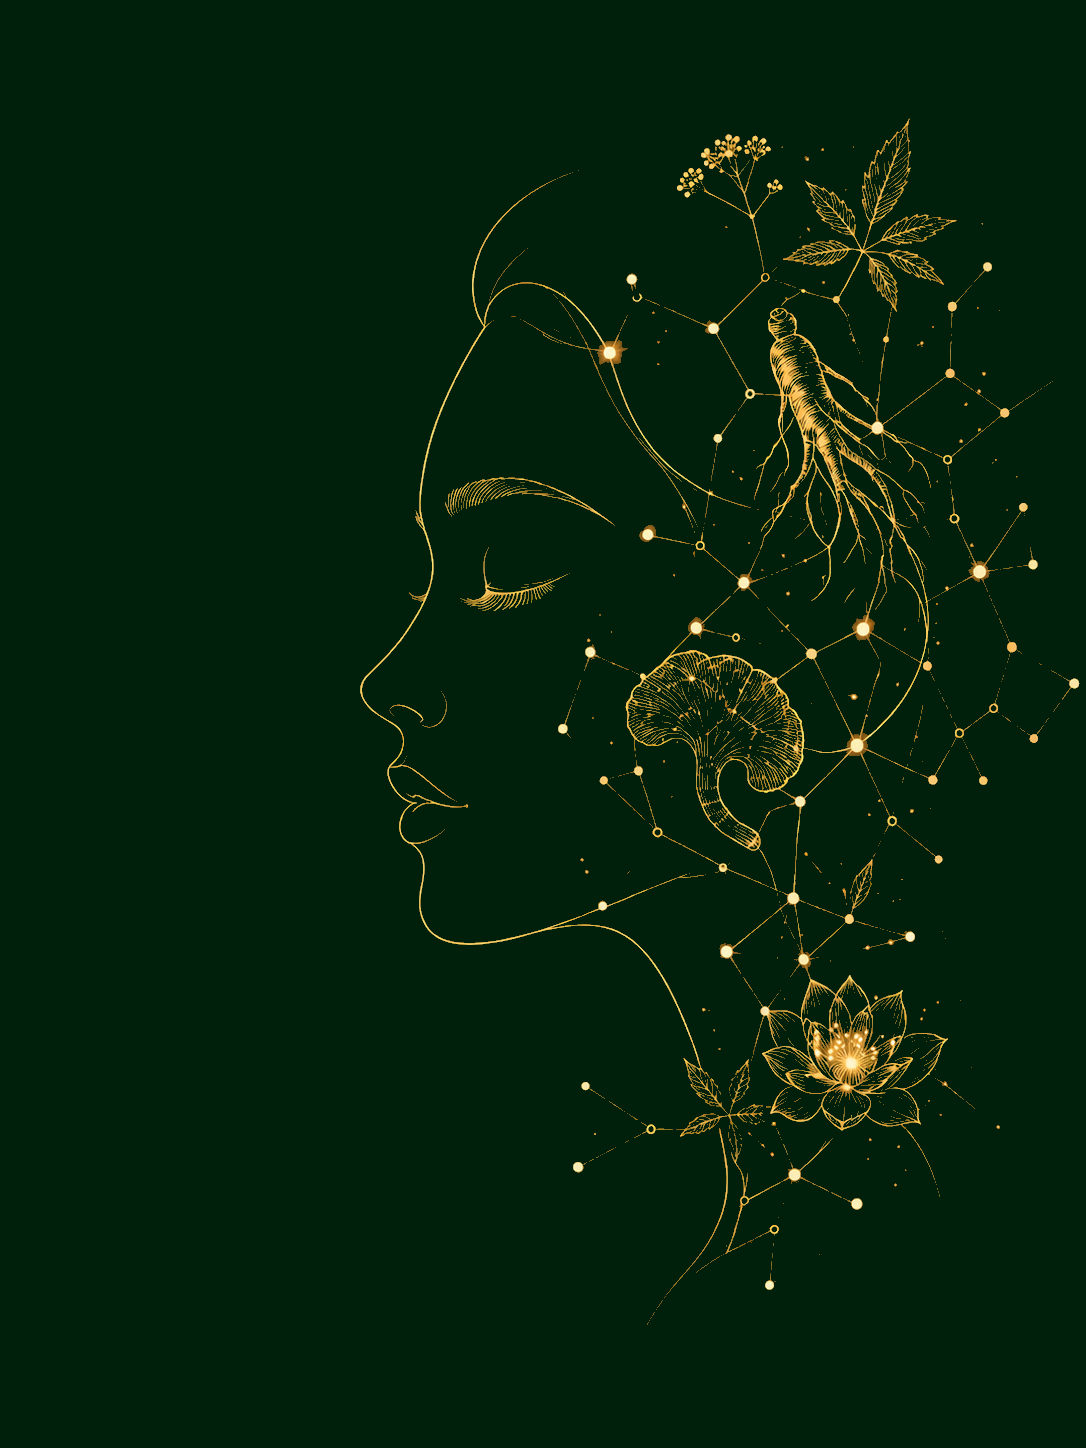
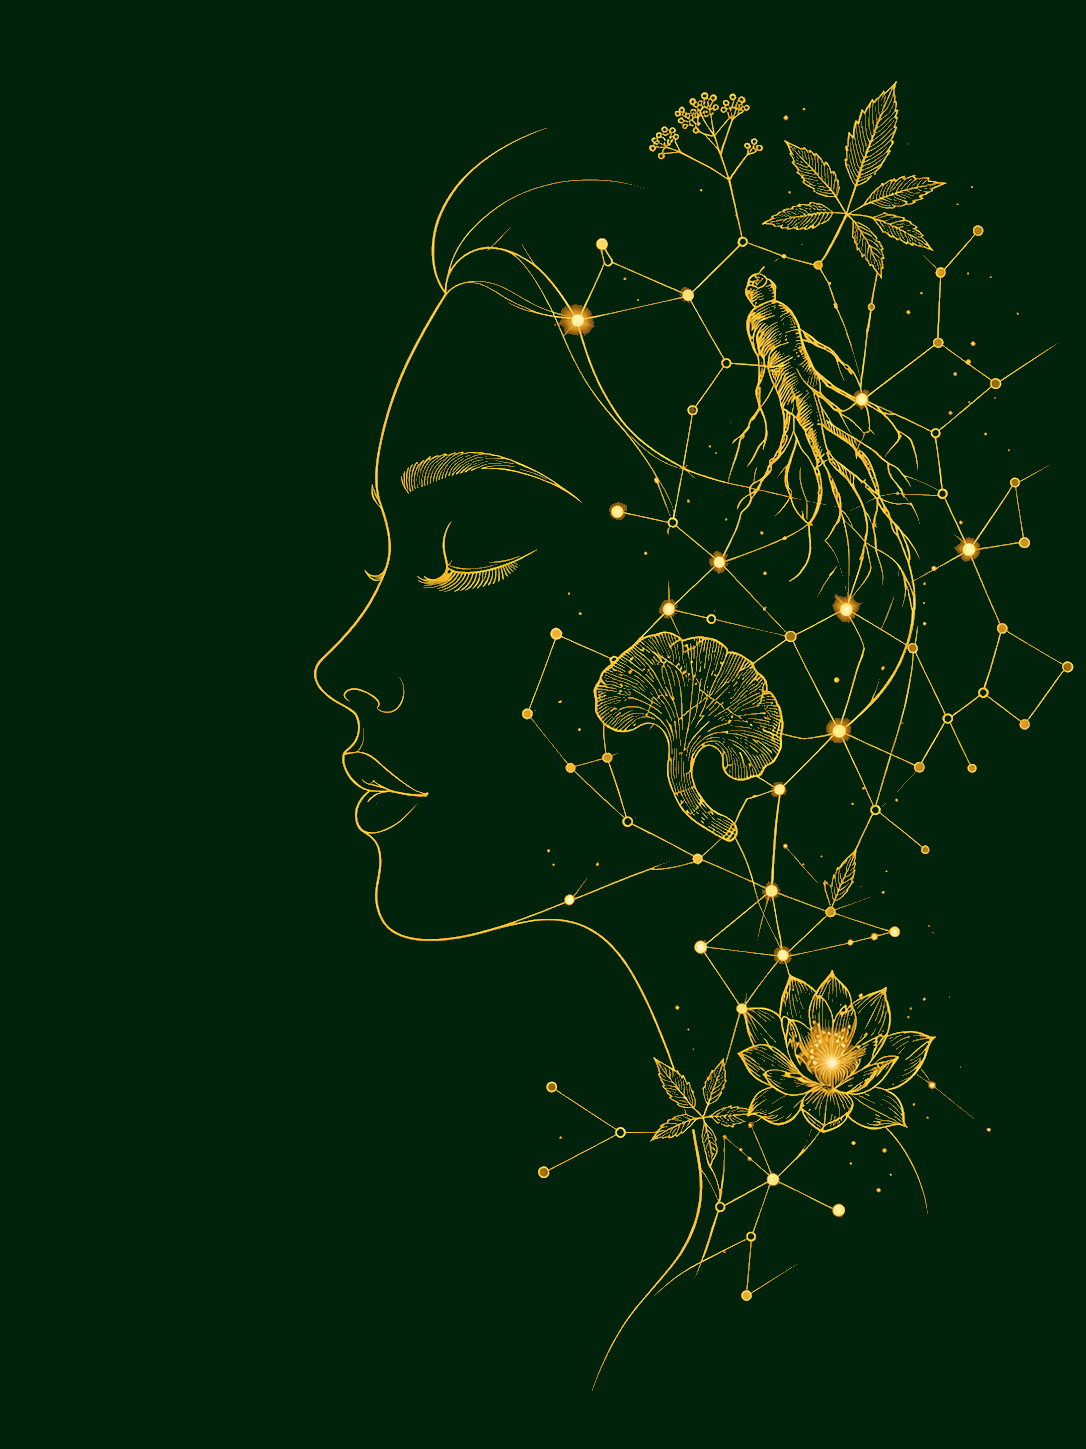
update: 替换为新版封面图，背景色同步调整为 #02230B
新图原生背景为 rgb(2,35,11)，已清理 95.5% 噪点为统一色，
封面 CSS background 同步改为 #02230B 完美匹配。
图片版本号 ?v=clean4 强刷缓存。

diff --git a/flh/index.html b/flh/index.html
@@ -110,7 +110,7 @@
     .cover {
       min-height: 100vh; display: flex; flex-direction: column;
       justify-content: center; padding: 80px 40px 120px;
-      background: #01200B;
+      background: #02230B;
       position: relative; overflow: hidden;
     }
     .cover::before {
@@ -1559,7 +1559,7 @@
 <section id="cover" class="cover">
   <div class="cover-inner">
     <div class="cover-hero-art">
-      <img src="/imgs/flh-cover-hero.png?v=clean3" alt="植养萃 × 樊文花 — 外护内养意象图" loading="eager" decoding="async">
+      <img src="/imgs/flh-cover-hero.png?v=clean4" alt="植养萃 × 樊文花 — 外护内养意象图" loading="eager" decoding="async">
     </div>
     <div class="cover-text">
       <h1 class="cover-title">外护樊文花<br><strong>内用植养萃</strong></h1>
